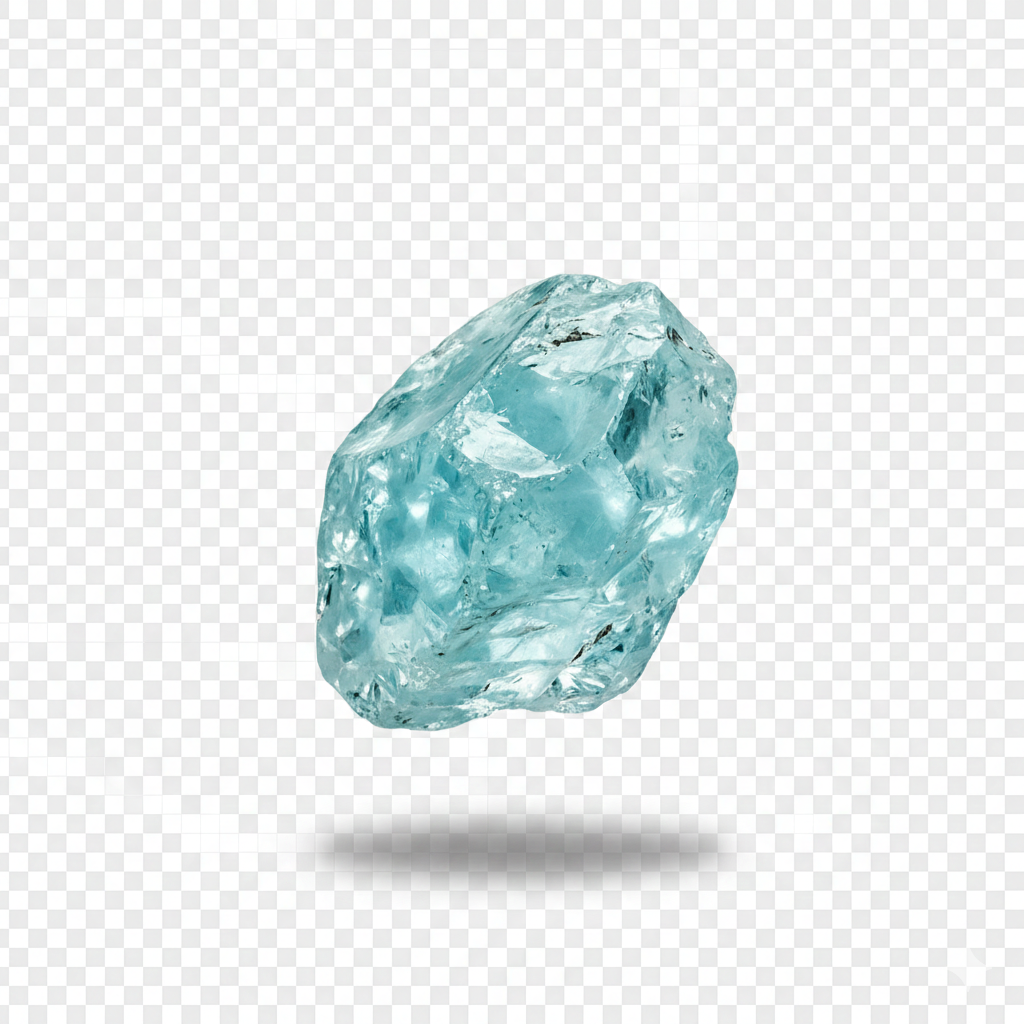
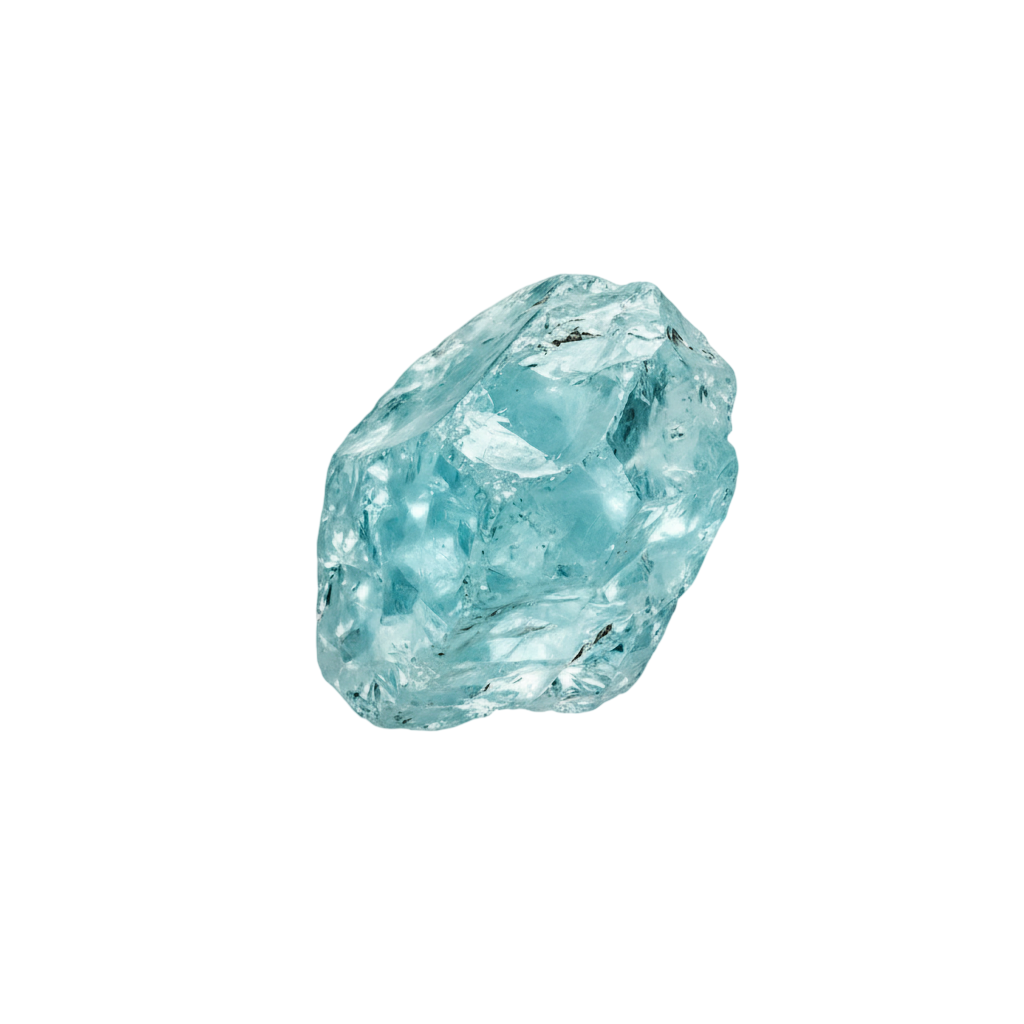
:sparkles: feat:change emoji for image

Changed region(s): [[0.2812, 0.7812, 0.7188, 0.875]]

diff --git a/src/data/stones.ts b/src/data/stones.ts
@@ -4,7 +4,7 @@ export const stones: Stone[] = [
   {
     id: 'tourmaline',
     name: 'Tourmaline Noire',
-    emoji: '🛡',
+    icon: '/pierres/tourmaline-noire.png',
     description: "La pierre de la protection et des limites énergétiques",
     properties: [
       'Protection énergétique',
@@ -18,7 +18,7 @@ export const stones: Stone[] = [
   {
     id: 'aquamarine',
     name: 'Aigue-marine',
-    emoji: '💧',
+    icon: '/pierres/aigue-marine.png',
     description: "La pierre de l'apaisement émotionnel et de l'expression",
     properties: [
       'Apaisement émotionnel',
@@ -26,13 +26,13 @@ export const stones: Stone[] = [
       'Lâcher-prise',
       'Calme intérieur',
     ],
-    usage: "Porte l’aigue-marine près de la gorge ou garde-la sur toi quand tu as besoin de dire les choses sans te noyer dans l’émotion.",
+    usage: "Porte l'aigue-marine près de la gorge ou garde-la sur toi quand tu as besoin de dire les choses sans te noyer dans l'émotion.",
     color: '#7FDBFF',
   },
   {
     id: 'sodalite',
     name: 'Sodalite',
-    emoji: '🧠',
+    icon: '/pierres/soladite.png',
     description: 'La pierre de la clarté mentale et de la logique apaisée',
     properties: [
       'Clarté mentale',
@@ -40,13 +40,13 @@ export const stones: Stone[] = [
       'Rationalité',
       'Calme du mental',
     ],
-    usage: "Porte la sodalite quand ton cerveau part dans tous les sens. Elle aide à remettre de l’ordre sans te couper de ton intuition.",
+    usage: "Porte la sodalite quand ton cerveau part dans tous les sens. Elle aide à remettre de l'ordre sans te couper de ton intuition.",
     color: '#2F4F9F',
   },
   {
     id: 'lapisLazuli',
     name: 'Lapis-lazuli',
-    emoji: '🔵',
+    icon: '/pierres/lapis-lazuli.png',
     description: 'La pierre de la vérité intérieure et de la confiance',
     properties: [
       'Expression personnelle',
@@ -54,13 +54,13 @@ export const stones: Stone[] = [
       'Vérité intérieure',
       'Clarté émotionnelle',
     ],
-    usage: "Porte le lapis-lazuli quand tu as besoin de t’affirmer ou de dire ta vérité. Elle t’aide à parler juste, pas plus fort.",
+    usage: "Porte le lapis-lazuli quand tu as besoin de t'affirmer ou de dire ta vérité. Elle t'aide à parler juste, pas plus fort.",
     color: '#26619C',
   },
   {
     id: 'obsidian',
     name: 'Obsidienne',
-    emoji: '🌑',
+    icon: '/pierres/obstidienne.png',
     description: "La pierre de l'introspection et du nettoyage émotionnel",
     properties: [
       'Introspection',
@@ -68,13 +68,13 @@ export const stones: Stone[] = [
       'Protection profonde',
       'Prise de conscience',
     ],
-    usage: "Utilise l’obsidienne avec intention, plutôt en méditation ou chez toi. Elle met en lumière ce que tu évites… mais pour t’aider à avancer.",
+    usage: "Utilise l'obsidienne avec intention, plutôt en méditation ou chez toi. Elle met en lumière ce que tu évites… mais pour t'aider à avancer.",
     color: '#1C1C1C',
   },
   {
     id: 'amethyst',
     name: 'Améthyste',
-    emoji: '💜',
+    icon: '/pierres/améthyste.png',
     description: 'La pierre de l\'apaisement mental et du sommeil',
     properties: [
       'Apaisement mental',
@@ -88,7 +88,7 @@ export const stones: Stone[] = [
   {
     id: 'labradorite',
     name: 'Labradorite',
-    emoji: '🌊',
+    icon: '/pierres/labradorite.png',
     description: 'La pierre de l\'hypersensibilité et de la protection émotionnelle',
     properties: [
       'Protection contre les énergies négatives',
@@ -102,7 +102,7 @@ export const stones: Stone[] = [
   {
     id: 'quartzRose',
     name: 'Quartz Rose',
-    emoji: '💗',
+    icon: '/pierres/quartz-rose.png',
     description: 'La pierre de la douceur émotionnelle et de l\'amour de soi',
     properties: [
       'Guérison émotionnelle',
@@ -116,7 +116,7 @@ export const stones: Stone[] = [
   {
     id: 'hematite',
     name: 'Hématite',
-    emoji: '⚫',
+    icon: '/pierres/hématite.png',
     description: 'La pierre de l\'ancrage et de la stabilité',
     properties: [
       'Ancrage à la terre',
@@ -130,7 +130,7 @@ export const stones: Stone[] = [
   {
     id: 'jasper',
     name: 'Jasper',
-    emoji: '🟤',
+    icon: '/pierres/japser.png',
     description: 'La pierre de la force et de la persévérance',
     properties: [
       'Force intérieure',
@@ -144,7 +144,7 @@ export const stones: Stone[] = [
   {
     id: 'citrine',
     name: 'Citrine',
-    emoji: '🟡',
+    icon: '/pierres/citrine.png',
     description: 'La pierre de la joie et de l\'abondance',
     properties: [
       'Joie de vivre',

diff --git a/src/components/StoneCard/StoneCard.css b/src/components/StoneCard/StoneCard.css
@@ -22,17 +22,31 @@
 .stone-card__header {
   display: flex;
   align-items: center;
+  justify-content: center;
   gap: 1.5rem;
   margin-bottom: 1.5rem;
 }
 
-.stone-card__emoji {
-  font-size: 3.5rem;
+.stone-card__icon-wrap {
+  flex-shrink: 0;
   line-height: 1;
 }
 
+.stone-card__icon {
+  width: 5rem;
+  height: 5rem;
+  object-fit: contain;
+  filter: drop-shadow(0 4px 12px rgba(153, 102, 204, 0.25));
+  transition: transform 0.3s ease, filter 0.3s ease;
+}
+
+.stone-card:hover .stone-card__icon {
+  transform: scale(1.05);
+  filter: drop-shadow(0 6px 16px rgba(153, 102, 204, 0.35));
+}
+
 .stone-card__title-section {
-  flex: 1;
+  flex-shrink: 0;
 }
 
 .stone-card__name {
@@ -136,8 +150,9 @@
     padding: 1.5rem;
   }
 
-  .stone-card__emoji {
-    font-size: 2.5rem;
+  .stone-card__icon {
+    width: 4rem;
+    height: 4rem;
   }
 
   .stone-card__name {

diff --git a/src/components/StoneCard/StoneCard.tsx b/src/components/StoneCard/StoneCard.tsx
@@ -12,7 +12,9 @@ export default function StoneCard({ match, rank }: StoneCardProps) {
   return (
     <div className={`stone-card stone-card--${rank}`}>
       <div className="stone-card__header">
-        <div className="stone-card__emoji">{stone.emoji}</div>
+        <div className="stone-card__icon-wrap">
+          <img src={stone.icon} alt="" className="stone-card__icon" />
+        </div>
         <div className="stone-card__title-section">
           <h3 className="stone-card__name">{stone.name}</h3>
           {rank === 'primary' && (

diff --git a/src/components/SwipeCard/SwipeCard.css b/src/components/SwipeCard/SwipeCard.css
@@ -23,8 +23,8 @@
 }
 
 .swipe-card__icon {
-  width: 6rem;
-  height: 6rem;
+  width: 8rem;
+  height: 8rem;
   object-fit: contain;
   background: transparent;
 }
@@ -111,8 +111,8 @@
   }
 
   .swipe-card__icon {
-    width: 5rem;
-    height: 5rem;
+    width: 6.5rem;
+    height: 6.5rem;
   }
 
   .swipe-card__text {

diff --git a/src/types/index.ts b/src/types/index.ts
@@ -8,7 +8,7 @@ export interface Question {
 export interface Stone {
   id: string;
   name: string;
-  emoji: string;
+  icon: string; // path to icon in public/pierres (e.g. /pierres/améthyste.png)
   description: string;
   properties: string[];
   usage: string;
